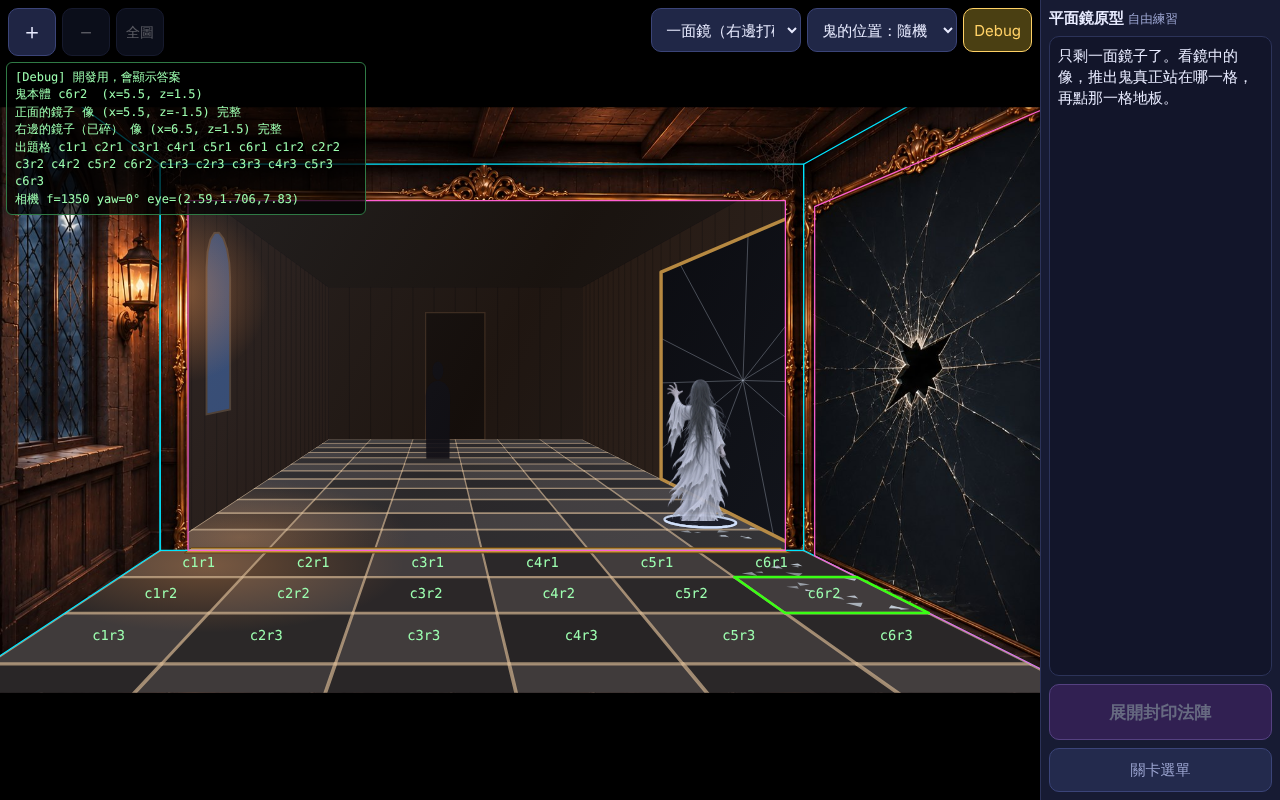
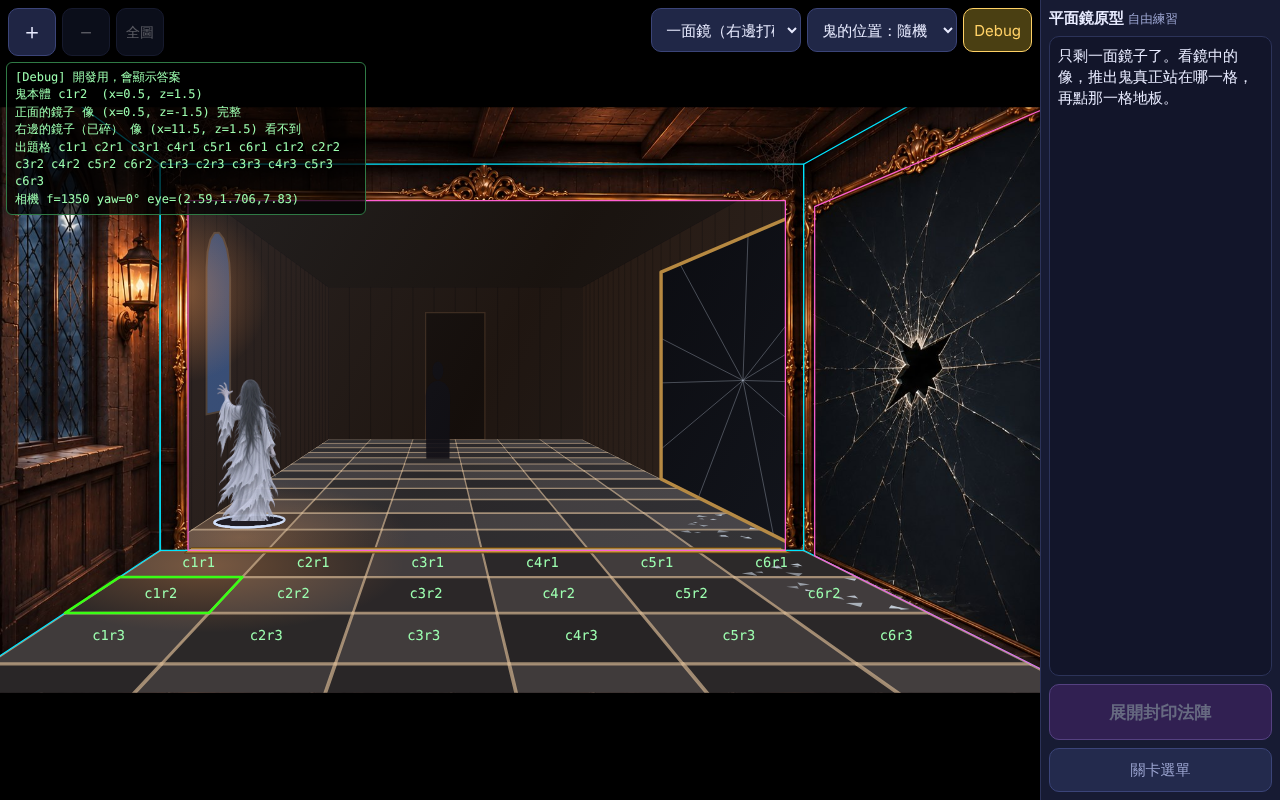
feat: two-mirror rounds only use cells both mirrors show in full; shorter move message
Claude-Session: https://claude.ai/code/session_01HvGmyTGiFBo42Y4CfnbQZX

diff --git a/tests/e2e-plane-mirror.js b/tests/e2e-plane-mirror.js
@@ -162,6 +162,8 @@ async function levelFlow(profile, browser) {
   ok(s.intact.join() === 'back,right', '兩面鏡都完好');
   ok(await page.evaluate(() => window.__protoMirror.pools[1].some((c) => window.__protoMirror.core.cellId(c.col, c.row) === window.__protoMirror.core.cellId(window.__protoMirror.state.ghost.col, window.__protoMirror.state.ghost.row))), '鬼在雙鏡出題格內', s.ghost);
   ok(s.images.back && s.images.right, '兩面鏡裡都有鬼的像');
+  const vis0 = await page.evaluate(() => { const m = window.__protoMirror, g = m.state.ghost; return ['back', 'right'].map((id) => m.core.visibility(m.room, m.cam, g, id).full); });
+  ok(vis0[0] && vis0[1], '雙鏡階段：鬼站的位置兩面鏡都照得到整隻');
   const sides = await page.evaluate(() => { const m = window.__protoMirror; return [m.ghostSide([]), m.ghostSide(['back']), m.ghostSide(['right']), m.ghostSide(['back', 'right'])]; });
   ok(sides.join() === 'front,back,front,back', '鬼面向玩家：直接看與右鏡是正面，正面鏡（與穿過正面鏡的二次像）是背面', sides.join());
   let px = await pixels();
@@ -221,6 +223,9 @@ async function levelFlow(profile, browser) {
   s = await info();
   ok(s.ghost !== ghost0 && !s.revealed && s.selected === null, '按繼續後鬼換了位置', ghost0 + ' → ' + s.ghost);
   ok(s.phase === 1 && s.scene === null, '抓到 1 次還是兩面鏡');
+  const vis1 = await page.evaluate(() => { const m = window.__protoMirror, g = m.state.ghost; return ['back', 'right'].map((id) => m.core.visibility(m.room, m.cam, g, id).full); });
+  ok(vis1[0] && vis1[1], '雙鏡階段第 2 隻：兩面鏡也都照得到整隻');
+  ok(s.status === '鬼掙脫了，換了一個地方躲。', '換位置的說明是短的那一句', s.status);
   px = await pixels();
   ok(px.ghostOut < EDGE_PX, '換位置後房間裡又看不到鬼');
 

diff --git a/prototype/plane-mirror/app.js b/prototype/plane-mirror/app.js
@@ -563,8 +563,7 @@
     casting: '法陣展開中……',
     wrong: '法陣裡沒有東西……少了一顆心。鬼還躲在原地，再看一次鏡子。',
     wrongFree: '法陣裡沒有東西。鬼還躲在原地，再看一次鏡子。',
-    moved: '鬼掙脫了，換了一個地方躲。再從鏡子裡找出牠站在哪一格。',
-    movedOne: '鬼掙脫了，換了一個地方躲。只剩一面鏡子，再找出牠站在哪一格。'
+    moved: '鬼掙脫了，換了一個地方躲。'
   };
   function setStatus(t) { $('status').textContent = t; }
 
@@ -605,7 +604,7 @@
     if (!FREE && state.sealed >= R.catchesTotal) { showClear(); return; }
     if (!FREE && state.phase === 1 && state.sealed >= R.catchesTwoMirrors) { showBreak(); return; }
     newGhost();
-    setStatus(state.phase === 2 ? MSG.movedOne : MSG.moved);
+    setStatus(MSG.moved);
     syncUI(); requestRender();
   }
 

diff --git a/prototype/shared/mirror-core.js b/prototype/shared/mirror-core.js
@@ -145,11 +145,11 @@
   }
   // 可以出題的格子。
   // 單鏡（mirrorIds 只有一面）：那面鏡裡看得到鬼的腳、身體、頭。
-  // 雙鏡：至少一面鏡裡看得到腳、身體、頭，而且另一面鏡裡也至少看得到一部分。
+  // 雙鏡：兩面鏡裡都看得到整隻鬼（使用者 2026-11-17：打碎鏡子之前，只用兩面鏡都照得到的位置）。
   function eligibleCells(room, cam, mirrorIds) {
     return selectableCells(room, cam).filter(function (cell) {
       var v = mirrorIds.map(function (id) { return visibility(room, cam, cell, id); });
-      return v.some(function (x) { return x.core; }) && v.every(function (x) { return x.any; });
+      return mirrorIds.length > 1 ? v.every(function (x) { return x.full; }) : v[0].core;
     });
   }
 

diff --git a/PROJECT.md b/PROJECT.md
@@ -49,6 +49,8 @@
 - ~~第一關的鬼先用現有 placeholder~~ → 使用者 2026-11-17 試玩後改定：**第一關的鬼用女鬼圖（`docs/concepts/ghost01.png`）**，而且**要從地板冒出來、不能懸空**（懸空就沒辦法判斷牠站在哪一格）。已實作：圖在裙襬還寬的地方切平、切口對準格子中央，腳下畫一圈漩渦。
 - 使用者 2026-11-17 試玩後：**平面鏡要換成落地鏡，原本的樣子很難玩**。已換成落地鏡的背景圖 `docs/concepts/Mirror4.png`（完好）／`Mirror5.png`（右鏡打碎）；`Mirror1`～`Mirror3` 不再使用。地板格 6 欄 × 3 排。
 - 第一關規則（使用者 2026-11-17「照建議」）：抓錯後鬼**不換位置**，抓到才換；3 條命**整關共用**，打碎鏡子不補命；點鏡子裡的像**只提醒、不扣命**；被打碎的是**右牆那面鏡**（照 `Mirror2.png`）；台詞由 AI 起草、使用者看過再定（草稿列在 `docs/prototype-findings-mirror.md` 第 13 點，尚未確認）。
+- 第一關出題（使用者 2026-11-17）：**打碎鏡子之前的 2 次，只用兩面鏡都照得到整隻鬼的位置**（目前 12 格）；打碎之後才用其他格子（單鏡 18 格全部可用）。規則寫在 `MirrorCore.eligibleCells()`。
+- 第一關「鬼換位置」的說明就是短短一句：「鬼掙脫了，換了一個地方躲。」（使用者 2026-11-17 定案）
 - 第一關的畫面做法（使用者 2026-11-17 提的「把鏡子與地板挖空」）：背景圖只留牆、鏡框、燈、窗；**地板與鏡中畫面由程式依幾何畫**，不用圖裡畫死的反射。
 - 平面鏡的鏡面要**落地**（程式把鏡面畫到地板，蓋掉原圖下框）。理由是實測的幾何：下緣離地 0.25 格就會擋住鏡後最近 2.2 格地板，學生沒辦法數格子（`docs/prototype-findings-mirror.md` ISSUE 1）。這和原本定案的「由地板延伸到天花板」一致。
 - 側視分析（凸、凹透鏡）：**按住標示點橫向拖曳會拉出平行線，放開留下、拉到別處取消**（使用者建議，已實作）。~~「平行線」按鈕保留。~~ → 2026-11-17 改為下一條。
@@ -224,7 +226,7 @@
 
 - 流程照 CONFIRMED：開場 → 兩面鏡抓 2 次 → 過場（鬼打碎右鏡）→ 一面鏡抓 3 次 → 過關 →【前往第二關】。過場用共用的 `prototype/shared/story-scene.js`。
 - 幾何在 `prototype/shared/mirror-core.js`（相機投影、鏡射、鏡中可見範圍、出題格）；房間與相機參數在 `prototype/plane-mirror/configs.js`（對著 `docs/concepts/Mirror4.png` 量的，換背景圖要重量）。
-- 測試（已併入 `npm test`）：`tests/check-geometry-mirror.js` 342/342、`tests/e2e-plane-mirror.js` 174/174。截圖 `docs/screenshots/mirror-*.png`。
+- 測試（已併入 `npm test`）：`tests/check-geometry-mirror.js` 338/338、`tests/e2e-plane-mirror.js` 180/180。截圖 `docs/screenshots/mirror-*.png`。
 - 2026-11-17 各測試結果：凹透鏡幾何 97/97、凸透鏡幾何 333/333、平面鏡幾何 283/283、凸透鏡 e2e 1494/1494、第二關流程 142/142、第一關 e2e 148/148；凹透鏡 e2e 在 `npm test` 裡通過。
 - **已知的偶發失敗（不是這輪造成的，凸透鏡程式這輪沒動）**：`tests/e2e-convex-lens.js` 的「『下一組配置』不會連續出同一組」有時會失敗（這次第一次跑 1492/1494，序列開頭是 0→0；重跑 1494/1494）。`npm test` 用 `&&` 串接，它一失敗後面的測試就不會跑。還沒修。
 - **第一版已由使用者在電腦上試玩過一次**（線上版），回饋與處理：

diff --git a/docs/prototype-findings-mirror.md b/docs/prototype-findings-mirror.md
@@ -222,3 +222,12 @@
 
 - 實體手機上的實際觀感（字夠不夠大、說明框會不會太擠）。
 - 寬度比 812 px 更窄的橫向螢幕（例如 667×375）：直欄會縮到 150 px，最長的說明可能放不下。沒有測。
+
+---
+
+## 追加：使用者的兩項指定（2026-11-17）
+
+1. **打碎鏡子之前的兩次，只用兩面鏡子都照得到的位置；之後才用其他格子。** 雙鏡階段的出題條件由「一面鏡看得到腳身頭、另一面至少露一部分」改成「兩面鏡裡都看得到整隻鬼」。雙鏡出題格由 14 格變 12 格（拿掉 c1r1、c2r2）：c2r1～c6r1、c3r2～c6r2、c4r3～c6r3。單鏡階段不變，18 格都可出題。
+2. **「鬼換位置」的說明改成短短一句**：「鬼掙脫了，換了一個地方躲。」（上一節我寫的較長版本作廢。）
+
+實測：幾何 338/338、e2e 180/180（新增：雙鏡階段的兩隻鬼，兩面鏡都照得到整隻；換位置的說明是短的那一句）。
